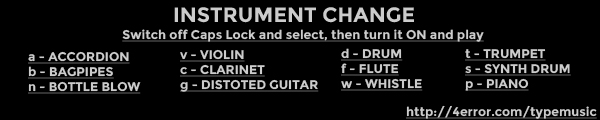
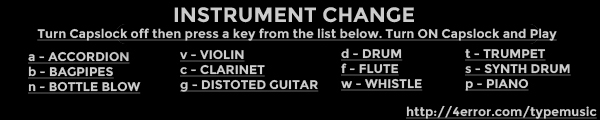
Added instructions on how to change instruments. Changed the text at the bottom

Changed region(s): [[0.06, 0.225, 0.93, 0.35]]

diff --git a/README.md b/README.md
@@ -17,6 +17,6 @@ Instructions to Run TypeMusic:
 		
 4. Double Click the TypeMusic executable file.
 
-5. Enjoy Playing.
+5. Enjoy Playing. Remember to turn on your Capslock
 
 We would appreciate your feedback at http://4errors.com/typemusic
